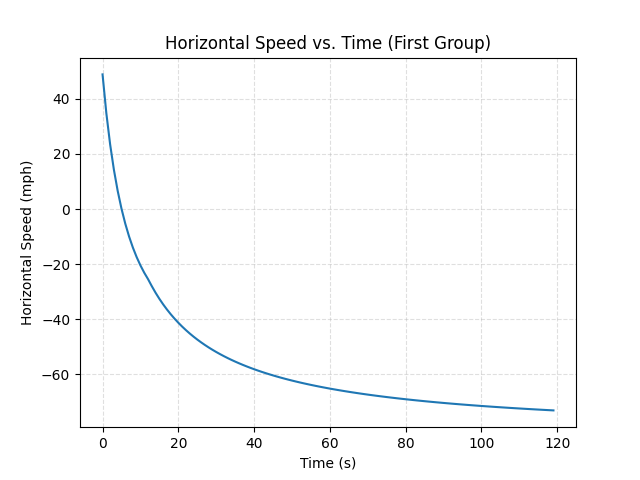
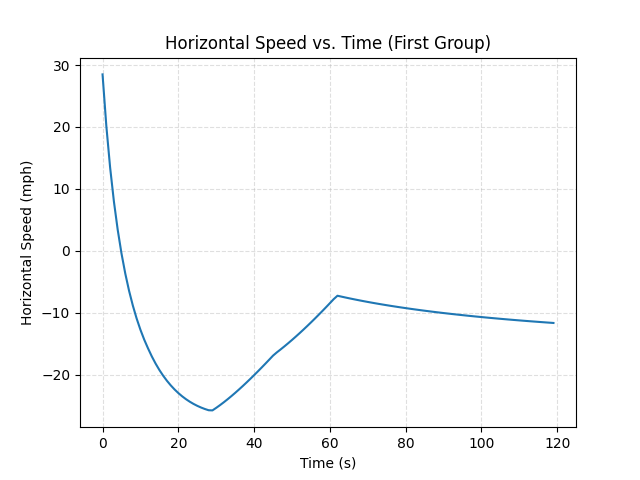
Added 3rd dimension (y), fixed ANOTHER issue with if/else logic in winds adjustment, added new y vs x plot

diff --git a/main.py b/main.py
@@ -6,6 +6,9 @@
 # TODO: Verify/fix freefly CD and A values to reflect real data
 #       NOTE: This will only be possible once I have reliable flysight data for
 #       a solo belly jump with known parameters (weight, winds, etc.)
+# TODO: Verify that I am doing x calculation correctly, using trapezoid rule of
+#       u[t] rather than the compute_x function, which only calculates x in the
+#       air reference frame
 # TODO: Add option to import data from CSV file of the load, including number
 #       of groups, discipline for each group, average mass of the group, etc.
 # TODO: Add in y[t] to be able to create 3D plots
@@ -13,9 +16,6 @@
 #       skydiver.py and make it rho[z] with interpolation. Might be difficult,
 #       but I guess I can just compute z[t] first, using z[t-1] as the index 
 #       for rho[z] -- so z[t] = f(rho[z[t-1]]). Do this on a new branch probs
-# TODO: Verify that I am doing x calculation correctly, using trapezoid rule of
-#       u[t] rather than the compute_x function, which only calculates x in the
-#       air reference frame
 # TODO: Clean up / Comment code
 
 # Python Built-In imports
@@ -60,13 +60,20 @@ def find_nearest(array, value):
     return closest
 
 def adjust_for_uppers(u, x, z, jump_run, winds):
+    # Create v[t] and y[t]
+    v = np.array(range(len(u)), dtype='f')
+    y = np.array(range(len(u)), dtype='f')
+
     for t in range(len(u)):
         # Get velocity adjustment based on velocity of air column at given t, in ft/s
-        u_adj = wind.compute_wind_adj(jump_run, z[t], winds)[0] * const.KT_TO_FPS
+        u_adj = wind.compute_wind_adj(jump_run, z[t], winds)[0]*const.KT_TO_FPS
+        v_adj = wind.compute_wind_adj(jump_run, z[t], winds)[1]*const.KT_TO_FPS
+        #print("v_adj[" + str(t) + " sec] = " + str(round(v_adj, 3)))
 
         # Adjust u[t] to be GROUND speed over time, adjusting for movement of 
         # wind column, which is captured by u_adj
         u[t] = u[t] + u_adj
+        v[t] = v_adj
 
         # At time zero, x is 0, so no adjustment needs to be made
         if t == 0:
@@ -76,8 +83,9 @@ def adjust_for_uppers(u, x, z, jump_run, winds):
         # which is just the area under the ground velocity curve
         # np.trapz below is same as u[t-1]*(1 second) + (u[t] - u[t-1])/2
         x[t] = x[t-1] + np.trapz([u[t-1], u[t]], [t-1, t], axis=0) 
+        y[t] = y[t-1] + np.trapz([v[t-1], v[t]], [t-1, t], axis=0)
 
-    return u, x
+    return u, x, v, y
 
 def plot_trajectories(trajectories):
     plt.figure(1)
@@ -290,12 +298,14 @@ if __name__ == "__main__":
             u = u - V_upper*const.KT_TO_FPS
             x = x - V_upper*const.KT_TO_FPS*t # Okay since V_upper is constant
         else:
-            u, x = adjust_for_uppers(u, x, z, params.jump_run, winds)
+            u, x, v, y = adjust_for_uppers(u, x, z, params.jump_run, winds)
 
         trajectories.append({
-            "u" : u*const.KT_TO_FPS*const.FPS_TO_MPH, # Convert to MPH for plots
-            "w" : w*const.FPS_TO_MPH,                 # Convert to MPH for plots
+            "u" : u*const.FPS_TO_MPH, # Convert to MPH for plots
+            "v" : v*const.FPS_TO_MPH, # Convert to MPH for plots
+            "w" : w*const.FPS_TO_MPH, # Convert to MPH for plots
             "x" : x,
+            "y" : y,
             "z" : z
         })
   
@@ -329,6 +339,10 @@ if __name__ == "__main__":
     generic_plot(t, trajectories[0]['u'], 3, \
                  "Horizontal Speed vs. Time (First Group)", "Time (s)", \
                  "Horizontal Speed (mph)", "horiz_speed_first_grp.png")
+
+    generic_plot(trajectories[0]['x'], trajectories[0]['y'], 6, \
+                 "y vs. x (First Group)", "x (feet)", \
+                 "y (feet)", "x_vs_y_first_grp.png")
 
     # Single jumper vertical speed - Freefly group
     generic_plot(t, trajectories[len(trajectories)-1]['w'], 4, \

diff --git a/winds.py b/winds.py
@@ -57,7 +57,7 @@ def compute_wind_adj(jump_run, altitude, winds):
     if altitude >= 18000:
         theta = np.deg2rad(np.abs(winds[18000][0] - jump_run))
         speed = winds[18000][1]
-    elif altitude < 18000:
+    elif altitude > 12000:
         theta_w = np.interp(altitude, [12000, 18000], \
             [winds[12000][0], winds[18000][0]])
         theta = np.deg2rad(np.abs(theta_w - jump_run))
@@ -66,7 +66,7 @@ def compute_wind_adj(jump_run, altitude, winds):
     elif altitude == 12000:
         theta = np.deg2rad(np.abs(winds[12000][0] - jump_run))
         speed = winds[12000][1]
-    elif altitude < 12000:
+    elif altitude > 9000:
         theta_w = np.interp(altitude, [9000, 12000], \
             [winds[9000][0], winds[12000][0]])
         theta = np.deg2rad(np.abs(theta_w - jump_run))
@@ -75,7 +75,7 @@ def compute_wind_adj(jump_run, altitude, winds):
     elif altitude == 9000:
         theta = np.deg2rad(np.abs(winds[9000][0] - jump_run))
         speed = winds[9000][1]
-    elif altitude < 9000:
+    elif altitude > 6000:
         theta_w = np.interp(altitude, [6000, 9000], \
             [winds[6000][0], winds[9000][0]])
         theta = np.deg2rad(np.abs(theta_w - jump_run))
@@ -84,7 +84,7 @@ def compute_wind_adj(jump_run, altitude, winds):
     elif altitude == 6000: # Don't want to lose precision from interpolating...
         theta = np.deg2rad(np.abs(winds[6000][0] - jump_run))
         speed = winds[6000][1]
-    elif altitude < 6000:
+    elif altitude > 3000:
         theta_w = np.interp(altitude, [3000, 6000], \
             [winds[3000][0], winds[6000][0]])
         theta = np.deg2rad(np.abs(theta_w - jump_run))
@@ -93,32 +93,33 @@ def compute_wind_adj(jump_run, altitude, winds):
     elif altitude <= 3000:
         theta = np.deg2rad(np.abs(winds[3000][0] - jump_run))
         speed = winds[3000][1]
-
        
     # Return u_adj, v_adj in knots
+    #print("theta = " + str(np.rad2deg(theta)) + ", altitude = " + str(altitude) + \
+    #      ", u_adj = " + str(speed*np.cos(theta)) + ", v_adj = " + \
+    #                      str(speed*np.sin(theta)))
+    
     return (speed*np.cos(theta), speed*np.sin(theta))
 
 def print_winds(winds, aircraft, exit_alt):
     degree_sign = u"\N{DEGREE SIGN}"
-    deg_total = 0
-    count = 0
+
     print("Winds Aloft for ACY:\n")
     for altitude in reversed(winds):
         print("\t" + str(altitude) + " ft: " + str(winds[altitude][1])+ " kts from " \
                 + str(winds[altitude][0]) + degree_sign)
-        deg_total += winds[altitude][0]
-        count += 1
 
     # TODO: Make this not hardcoded -- if EXIT_ALT is changed from 13500 to something else,
     #       the code below will not work
     exit_uppers = np.interp(exit_alt, [12000, 18000], [winds[12000][1], winds[18000][1]])
+    exit_deg = np.interp(exit_alt, [12000, 18000], [winds[12000][0], winds[18000][0]])
 
     print("")
     exit_sep = exit_sep_chart(exit_uppers, aircraft)
-    deg_avg = round(float(deg_total)/count)
-    print("\tSuggested jump run: " + colored(str(deg_avg) + degree_sign, 'magenta'))
 
-    return deg_avg, exit_sep 
+    print("\tSuggested jump run: " + colored(str(exit_deg) + degree_sign, 'magenta'))
+
+    return exit_deg, exit_sep 
 
 def exit_sep_chart(exit_uppers, aircraft):
     # Using values from https://www.dropzone.com/articles/safety/exit-separation-r876/
